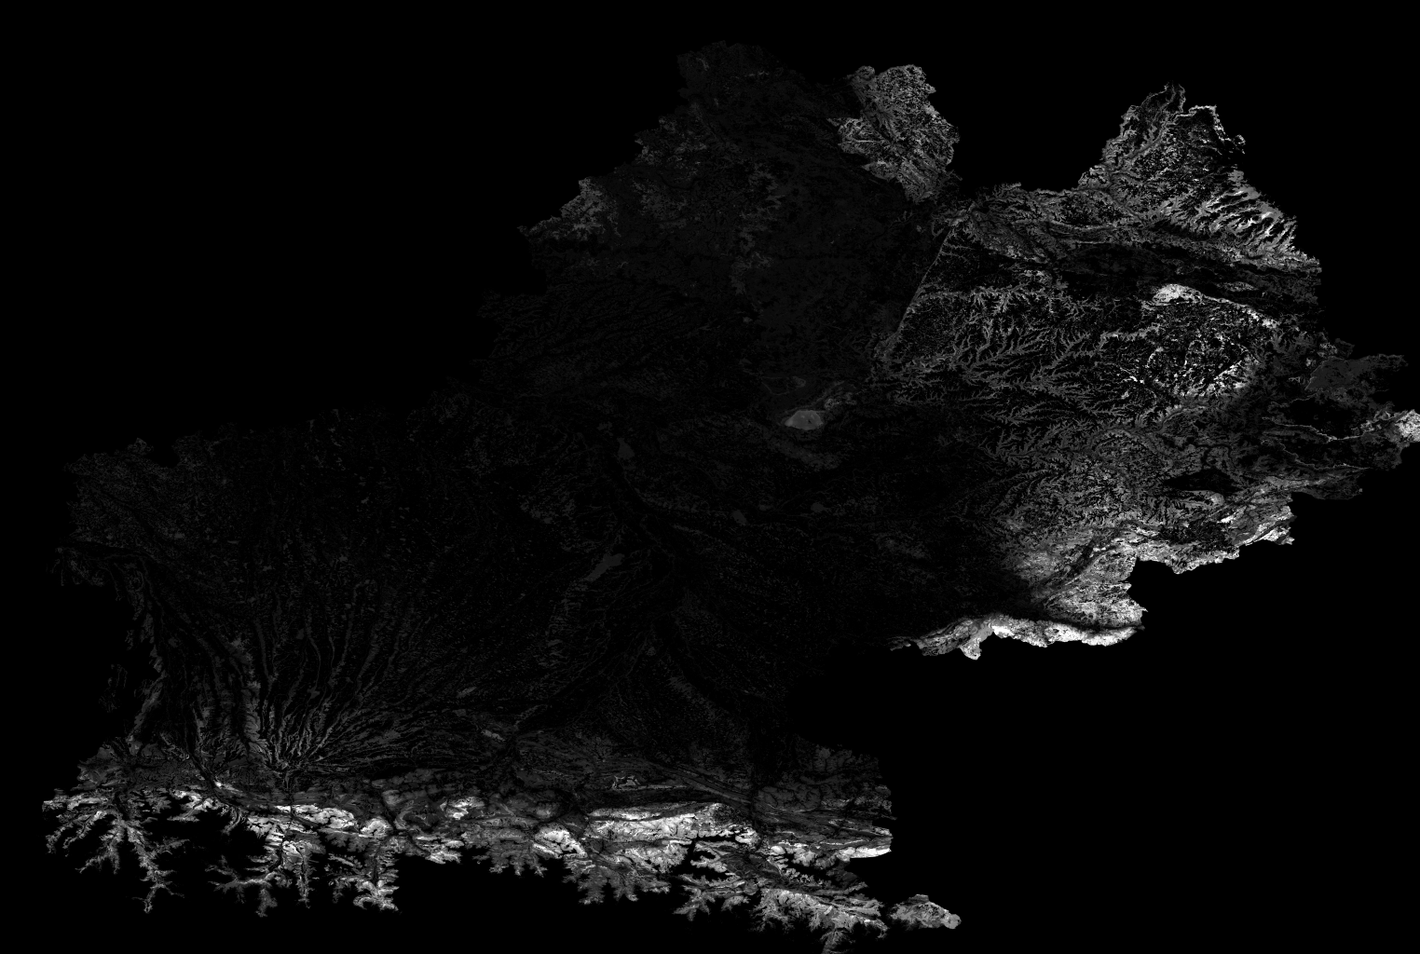
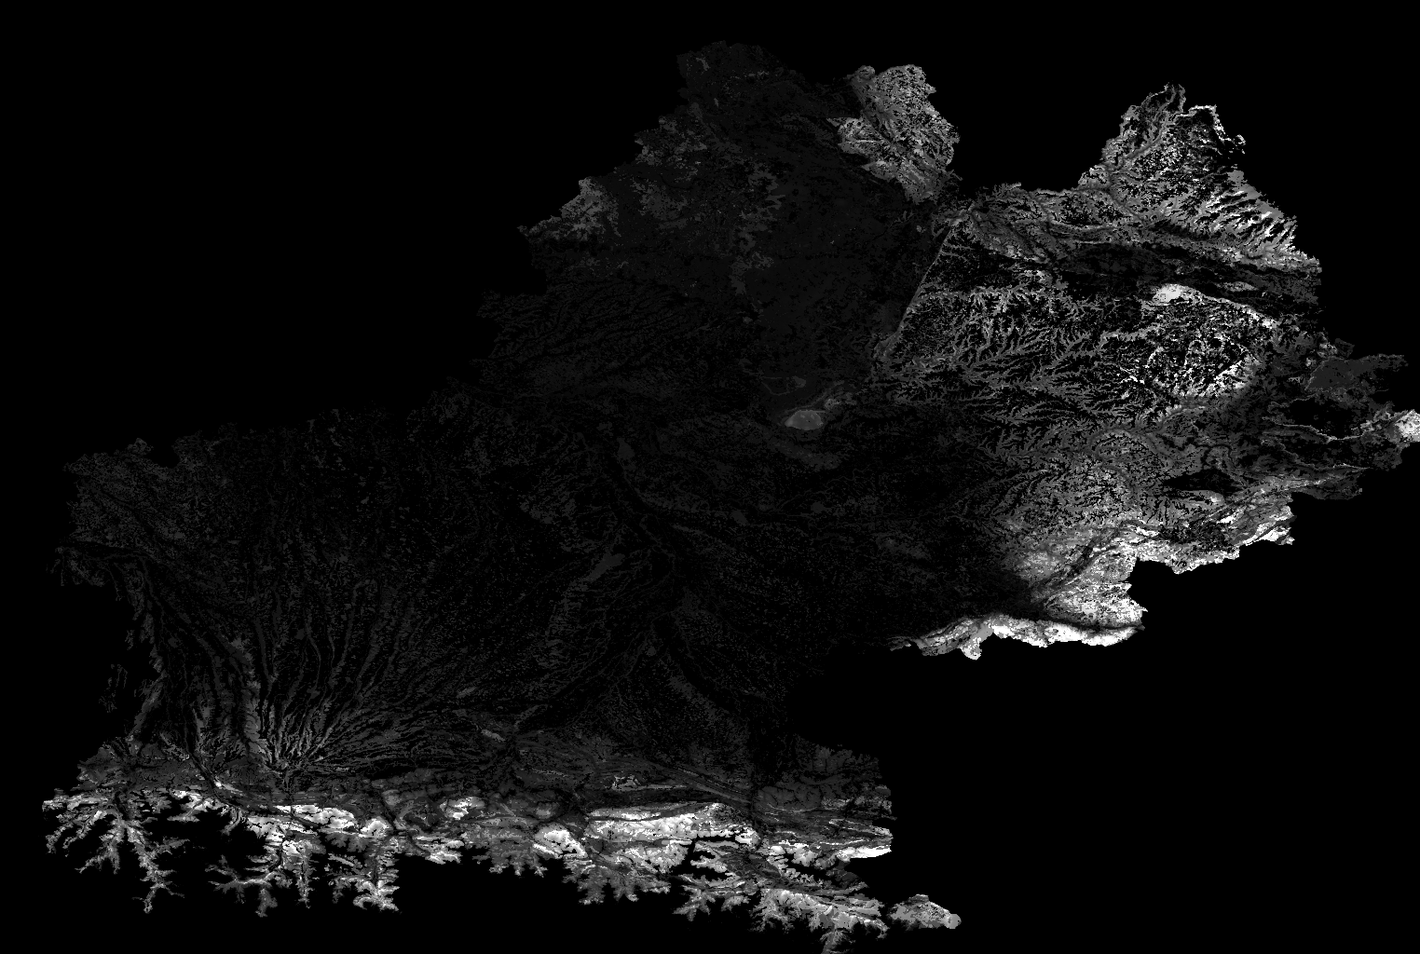
Coins : couche « Observations réelles » (GBIF) et vue d'ensemble au 3e quartile
- Case à cocher « 📍 Observations réelles » : trouvailles publiques de l'espèce choisie
  (public/observations.json, scripts/build-observations.py, ~1 700 points), bulle avec date,
  précision de position, jeu de données et licence ; rappel que pas de point ≠ pas de champignons.
- Vue d'ensemble à 250 m : 3e quartile des cases de 20 m au lieu de la moyenne, qui diluait les
  bons bois dans les prés (cèpe de Bordeaux : 1,5 % -> 2,8 % de la région au-dessus de 0,5,
  contre 3,9 % à 20 m ; l'Aubrac réapparaît au dézoom).

diff --git a/src/components/MapView.tsx b/src/components/MapView.tsx
@@ -31,6 +31,8 @@ import { LocateControl } from './LocateControl'
 import { CoinsCodeDialog } from './CoinsCodeDialog'
 import { coinsUnlocked } from '../lib/coinsLock'
 import { moonEnabled, setMoonEnabled } from '../lib/moon'
+import { loadObservations, observationsEnabled, setObservationsEnabled, type ObservationsMeta } from '../lib/observations'
+import { ObservationsLayer } from './ObservationsLayer'
 import { collapsePanels } from '../lib/usePanelCollapse'
 import './MapView.css'
 import { ModeSwitch } from './ModeSwitch'
@@ -268,6 +270,15 @@ export function MapView() {
     setMoonState(on)
     setMoonEnabled(on)
   }, [])
+  const [observations, setObservationsState] = useState(observationsEnabled)
+  const setObservations = useCallback((on: boolean) => {
+    setObservationsState(on)
+    setObservationsEnabled(on)
+  }, [])
+  const [obsMeta, setObsMeta] = useState<ObservationsMeta | null>(null)
+  useEffect(() => {
+    if (mode === 'coins' && observations) void loadObservations().then(setObsMeta)
+  }, [mode, observations])
   const [coinsView, setCoinsViewState] = useState<CoinsView>(() => {
     try {
       return localStorage.getItem('mc-coins-view') === 'milieu' ? 'milieu' : 'meteo'
@@ -591,6 +602,9 @@ export function MapView() {
             onView={setCoinsView}
             moon={moon}
             onMoon={setMoon}
+            observations={observations}
+            onObservations={setObservations}
+            obsCount={obsMeta ? (obsMeta.species[coinsSpecies]?.length ?? 0) : null}
             onSelectSpot={(s) => {
               map?.flyTo([s.lat, s.lon], Math.max(map.getZoom(), 13))
               openSpot(s.lat, s.lon, s.name)
@@ -711,6 +725,7 @@ export function MapView() {
         {mode === 'coins' && coinsResult && coinsStatus === 'ready' && fineIndex >= 0 && (
           <CoinsFineLayer result={coinsResult} speciesIndex={fineIndex} />
         )}
+        {mode === 'coins' && observations && obsMeta && <ObservationsLayer meta={obsMeta} species={coinsSpecies} />}
         {mode === 'coins' && spot && <ForecastCross point={{ lat: spot.lat, lon: spot.lon }} />}
 
         {mode === 'previsions' && <ForecastCross point={forecastState.status === 'idle' ? null : forecastState.point} />}

diff --git a/src/components/ObservationsLayer.tsx b/src/components/ObservationsLayer.tsx
@@ -1,0 +1,49 @@
+// Points des trouvailles réelles (GBIF) de l'espèce choisie, au-dessus de la carte des coins (lib/observations.ts).
+import L from 'leaflet'
+import { useEffect } from 'react'
+import { useMap } from 'react-leaflet'
+import { SPECIES, type Species } from '../lib/coins'
+import { formatObservationDate, type ObservationsMeta } from '../lib/observations'
+
+type Props = { meta: ObservationsMeta; species: Species }
+
+const escape = (s: string) => s.replace(/[&<>"]/g, (c) => ({ '&': '&amp;', '<': '&lt;', '>': '&gt;', '"': '&quot;' })[c]!)
+
+export function ObservationsLayer({ meta, species }: Props) {
+  const map = useMap()
+
+  useEffect(() => {
+    // Calque propre au-dessus des coins (350) et sous les bulles ; rendu canvas (des centaines de points).
+    if (!map.getPane('observations')) map.createPane('observations').style.zIndex = '450'
+    const renderer = L.canvas({ pane: 'observations' })
+    const label = SPECIES.find((s) => s.key === species)?.label ?? species
+    const group = L.layerGroup()
+    for (const [lat, lon, when, ds, unc] of meta.species[species] ?? []) {
+      const dataset = meta.datasets[ds]
+      const marker = L.circleMarker([lat, lon], {
+        pane: 'observations',
+        renderer,
+        radius: 5,
+        weight: 2,
+        color: '#1e293b',
+        fillColor: '#ffffff',
+        fillOpacity: 0.95,
+        // Sans ça, toucher un point ouvrirait aussi la fiche du coin en dessous.
+        bubblingMouseEvents: false,
+      })
+      marker.bindPopup(
+        `<strong>${escape(label)}</strong> trouvé ici<br>` +
+          `${escape(formatObservationDate(when))}<br>` +
+          `<small>Position ${unc >= 0 ? `à ${unc < 1000 ? `${unc} m` : `${(unc / 1000).toLocaleString('fr-FR')} km`} près` : 'de précision inconnue'}</small><br>` +
+          `<small>Source : <a href="https://www.gbif.org/dataset/${encodeURIComponent(dataset.key)}" target="_blank" rel="noopener">${escape(dataset.title || 'GBIF')}</a> (${escape(dataset.license)}), via GBIF.org</small>`,
+      )
+      group.addLayer(marker)
+    }
+    group.addTo(map)
+    return () => {
+      group.remove()
+    }
+  }, [map, meta, species])
+
+  return null
+}

diff --git a/src/components/CoinsControls.tsx b/src/components/CoinsControls.tsx
@@ -28,11 +28,15 @@ type Props = {
   // Clin d'œil « lune » (croyance populaire, lib/moon.ts), désactivé par défaut.
   moon: boolean
   onMoon: (on: boolean) => void
+  // Couche des trouvailles réelles (GBIF) ; obsCount = nombre de points pour l'espèce (null tant que non chargé).
+  observations: boolean
+  onObservations: (on: boolean) => void
+  obsCount: number | null
 }
 
 export type CoinsView = 'meteo' | 'milieu'
 
-export function CoinsControls({ species, onSpecies, dayIndex, onDay, meta, status, error, onRetry, spots, onSelectSpot, view, onView, moon, onMoon }: Props) {
+export function CoinsControls({ species, onSpecies, dayIndex, onDay, meta, status, error, onRetry, spots, onSelectSpot, view, onView, moon, onMoon, observations, onObservations, obsCount }: Props) {
   const [collapsed, setCollapsed] = useState(false)
   // Mobile : replié quand on touche la carte ou qu'une fiche s'ouvre (lib/usePanelCollapse.ts).
   usePanelCollapse(useCallback(() => setCollapsed(true), []))
@@ -176,6 +180,21 @@ export function CoinsControls({ species, onSpecies, dayIndex, onDay, meta, statu
               ))}
             </ol>
           )}
+
+          <label className="coins__moon coins__obs">
+            <input type="checkbox" checked={observations} onChange={(e) => onObservations(e.target.checked)} />
+            <span>
+              📍 Observations réelles <small>(GBIF)</small>
+              {observations && (
+                <small className="coins__moon-phase">
+                  {obsCount === null
+                    ? 'Chargement…'
+                    : `${obsCount} trouvailles publiques de l’espèce dans la région (points blancs, toucher pour la date et la source).`}{' '}
+                  Pas de point ne veut pas dire pas de champignons : beaucoup de cueilleurs ne publient pas leurs coins.
+                </small>
+              )}
+            </span>
+          </label>
 
           <label className="coins__moon">
             <input type="checkbox" checked={moon} onChange={(e) => onMoon(e.target.checked)} />

diff --git a/src/lib/observations.ts b/src/lib/observations.ts
@@ -1,0 +1,46 @@
+// Couche « Observations réelles » du mode Coins : trouvailles publiques des 7 espèces (GBIF), préparées par
+// scripts/build-observations.py dans public/observations.json. Chaque point garde son jeu de données (titre +
+// licence, affichés dans la bulle : obligatoire pour les licences CC BY / CC BY-NC).
+import type { Species } from './coins'
+
+export type ObservationDataset = { key: string; title: string; license: string }
+// [lat, lon, date (AAAA-MM-JJ, AAAA-MM ou AAAA), index du jeu de données, incertitude de position en m (-1 = inconnue)]
+export type ObservationPoint = [number, number, string, number, number]
+export type ObservationsMeta = {
+  generatedAt: string
+  datasets: ObservationDataset[]
+  species: Partial<Record<Species, ObservationPoint[]>>
+}
+
+let cache: Promise<ObservationsMeta | null> | null = null
+export function loadObservations(): Promise<ObservationsMeta | null> {
+  cache ??= fetch(`${import.meta.env.BASE_URL}observations.json`)
+    .then((r) => (r.ok ? (r.json() as Promise<ObservationsMeta>) : null))
+    .catch(() => null)
+  return cache
+}
+
+const MONTH = new Intl.DateTimeFormat('fr-FR', { month: 'long', year: 'numeric' })
+const DAY = new Intl.DateTimeFormat('fr-FR', { day: 'numeric', month: 'long', year: 'numeric' })
+export function formatObservationDate(when: string): string {
+  const [y, m, d] = when.split('-').map(Number)
+  if (d) return DAY.format(new Date(y, m - 1, d))
+  if (m) return MONTH.format(new Date(y, m - 1, 1))
+  return when || 'date inconnue'
+}
+
+const KEY = 'mc-coins-observations'
+export function observationsEnabled(): boolean {
+  try {
+    return localStorage.getItem(KEY) === '1'
+  } catch {
+    return false
+  }
+}
+export function setObservationsEnabled(on: boolean): void {
+  try {
+    localStorage.setItem(KEY, on ? '1' : '0')
+  } catch {
+    // mémorisation facultative
+  }
+}

diff --git a/src/components/CoinsControls.css b/src/components/CoinsControls.css
@@ -325,6 +325,19 @@
   color: #6d28d9;
 }
 
+.coins__obs {
+  background: #f1f5f9;
+  color: #1e293b;
+}
+
+.coins__obs input {
+  accent-color: #1e293b;
+}
+
+.coins__obs small {
+  color: #475569;
+}
+
 .coins__moon-phase {
   display: block;
   margin-top: 3px;

diff --git a/scripts/build-observations.py b/scripts/build-observations.py
@@ -1,0 +1,77 @@
+"""Observations réelles des 7 espèces du mode Coins (GBIF) -> public/observations.json, pour la couche
+« Observations réelles » de l'appli (on voit où l'espèce a vraiment été trouvée et notée).
+
+Entrée : .cache-habitat/gbif/sp.json (scripts/validation/gbif_fetch_all.py). Gardées : emprise de la région, position
+à 5 km près au plus (l'incertitude est affichée), une seule par espèce, lieu et jour. Chaque point garde son jeu de
+données : titre et licence (CC0, CC BY, CC BY-NC) affichés dans l'appli, comme l'exigent ces licences ; usage non
+commercial. Aucun nom d'observateur n'est repris.
+
+Lancement : python scripts/build-observations.py   (à relancer après un nouveau téléchargement GBIF)
+"""
+import json
+import os
+import urllib.request
+from datetime import datetime, timezone
+
+ROOT = os.path.dirname(os.path.dirname(os.path.abspath(__file__)))
+SRC = os.path.join(ROOT, ".cache-habitat", "gbif", "sp.json")
+OUT = os.path.join(ROOT, "public", "observations.json")
+LAT_MIN, LAT_MAX, LON_MIN, LON_MAX = 42.6, 45.15, -0.4, 3.4
+MAX_UNC = 5000
+LICENSES = {"by-nc": "CC BY-NC 4.0", "by": "CC BY 4.0", "zero": "CC0"}
+
+
+def license_label(url):
+    url = (url or "").lower()
+    for key in ("by-nc", "zero", "by"):
+        if f"/{key}/" in url or url.endswith(key):
+            return LICENSES[key]
+    return url or "?"
+
+
+def main():
+    sp = json.load(open(SRC))
+    datasets, index, out = [], {}, {}
+    for name, block in sp.items():
+        seen, pts = set(), []
+        for r in block["recs"]:
+            lat, lon = r.get("decimalLatitude"), r.get("decimalLongitude")
+            if lat is None or not (LAT_MIN <= lat <= LAT_MAX and LON_MIN <= lon <= LON_MAX):
+                continue
+            unc = r.get("coordinateUncertaintyInMeters")
+            if unc is not None and unc > MAX_UNC:
+                continue
+            y, m, d = r.get("year"), r.get("month"), r.get("day")
+            when = f"{y:04d}-{m:02d}-{d:02d}" if y and m and d else f"{y:04d}-{m:02d}" if y and m else str(y or "")
+            key = (round(lat, 4), round(lon, 4), when)
+            if key in seen:
+                continue
+            seen.add(key)
+            ds = r.get("datasetKey")
+            if ds not in index:
+                index[ds] = len(datasets)
+                datasets.append({"key": ds, "license": license_label(r.get("license"))})
+            pts.append([round(lat, 4), round(lon, 4), when, index[ds], int(unc) if unc is not None else -1])
+        pts.sort(key=lambda p: p[2])
+        out[name] = pts
+        print(f"{name:14s} {len(pts)} observations")
+    for ds in datasets:
+        try:
+            with urllib.request.urlopen(f"https://api.gbif.org/v1/dataset/{ds['key']}", timeout=30) as resp:
+                ds["title"] = json.load(resp).get("title", "")
+        except Exception:
+            ds["title"] = ""
+    meta = {
+        "generatedAt": datetime.now(timezone.utc).strftime("%Y-%m-%dT%H:%M:%SZ"),
+        "source": "GBIF.org — observations publiques ; licence de chaque jeu de données ci-dessous",
+        "fields": ["lat", "lon", "date", "jeu de données (index de datasets)", "incertitude de position en m (-1 = inconnue)"],
+        "datasets": datasets,
+        "species": out,
+    }
+    with open(OUT, "w", encoding="utf-8") as fh:
+        json.dump(meta, fh, ensure_ascii=False, separators=(",", ":"))
+    print(f"{len(datasets)} jeux de données, {os.path.getsize(OUT) // 1024} Ko")
+
+
+if __name__ == "__main__":
+    main()

diff --git a/scripts/build-habitat-fine.py b/scripts/build-habitat-fine.py
@@ -449,8 +449,11 @@ def build_tiles(raster, zooms=(10, 11, 12, 13)):
 
 
 def build_coarse():
-    """Carte d'ensemble à 250 m (public/habitat/<espèce>.png) = MOYENNE de l'habitat à 20 m sur chaque case :
-    une seule source de vérité, la carte d'ensemble et les tuiles fines racontent la même chose."""
+    """Carte d'ensemble à 250 m (public/habitat/<espèce>.png) tirée de l'habitat à 20 m : une seule source de vérité.
+    Valeur d'une case = 3e QUARTILE de ses cases de 20 m (révision du 31/10/2026) : la case s'allume dès qu'un quart de
+    sa surface est un bon milieu. La MOYENNE d'avant diluait les bons bois dans les prés et champs voisins : 1,5 % de la
+    région au-dessus de 0,5 pour le cèpe de Bordeaux, contre 3,9 % à 20 m (l'Aubrac, zone la mieux confirmée par les
+    observations, disparaissait au dézoom) ; 2,8 % avec le 3e quartile ; le maximum (5,4 %) aurait exagéré."""
     from PIL import Image
     from rasterio.transform import from_bounds
 
@@ -460,7 +463,7 @@ def build_coarse():
     with rasterio.open(FULL) as src:
         for i, sp in enumerate(SPECIES):
             dst = np.zeros((rows, cols), np.float32)
-            reproject(rasterio.band(src, i + 1), dst, dst_transform=tr, dst_crs="EPSG:4326", resampling=Resampling.average,
+            reproject(rasterio.band(src, i + 1), dst, dst_transform=tr, dst_crs="EPSG:4326", resampling=Resampling.q3,
                       src_nodata=None, dst_nodata=0)
             Image.fromarray(np.clip(np.rint(dst), 0, 255).astype(np.uint8), mode="L").save(os.path.join(outdir, f"{sp}.png"), optimize=True)
             log(f"carte d'ensemble {sp} : moyenne {dst[dst > 0].mean() / 255:.3f}, cases >= 0,5 : {(dst >= 128).mean() * 100:.1f} %")

diff --git a/CLAUDE.md b/CLAUDE.md
@@ -106,7 +106,7 @@ But : montrer où chercher les **4 cèpes séparés** (d'été *B. reticulatus*,
 - **Formule du milieu** (`build-habitat.py` règles, `build-habitat-fine.py` calcul à 20 m) : **arbres hôtes à moins de 30 m** (mycorhiziens ; sinon 0) × **ouverture du bois** (courbe par espèce sur le % de couvert : cèpes de chaleur = bois clairs et parsemés, Bordeaux/pins tolèrent le dense, girolle bois clair à dense, trompette ombre dense, coulemelle milieu ouvert) × **sol** (plancher 0,25) × **altitude** × **pente** × **exposition** (sud-sud-ouest pour été/bronzé, nord-nord-est pour Bordeaux/girolle/trompette, pondérée par la pente). **Haies et bosquets** hors BD Forêt (< 0,5 ha) comptent (`SMALL_WOODS`, essence inconnue) ; **coupes récentes** (forêt BD Forêt sans arbre en 2024 à 30 m) × 0,1. Corrections : cèpe de Bordeaux plus pénalisé en plaine (c'est LE cèpe des chênaies/châtaigneraies de plaine du Sud-Ouest), cèpe des pins moins pénalisé en basse altitude, chênes verts/pubescents mieux notés pour le cèpe d'été. La carte d'ensemble à 250 m (`public/habitat/<espèce>.png`) est désormais la MOYENNE de l'habitat à 20 m (`build_coarse`, raster 7 bandes `habitat-20m-7b.tif`) : une seule source de vérité. Tuiles : 5 257, 173 Mo (branche `habitat`). Contrôle visuel : causses du Quercy très favorables au cèpe d'été (calcaire + chênes pubescents), girolle absente des causses, Bordeaux et girolle sur Pyrénées / Montagne Noire / Bouriane / Ségala.
 - **Pousse v2** (`build-pousse.py`), vérifiée sur scénarios types (orage de juillet à 20 °C : cèpe d'été pic J+9, favorable J+8-10, coulemelle J+5 ; grosse pluie d'octobre à 12 °C : Bordeaux pic J+14 dès J+11, coulemelle J+11 ; pluies régulières d'octobre : trompette J+15-32, girolle J+18-30) : jour déclencheur lui-même pluvieux (≥ 5 mm ; un orage comptait sur 3 jours), évaporation sous couvert `max(0,3 ; 0,14 T - 0,3)` mm/j (trop faible l'été avant), fenêtres de degrés-jours revues (été/bronzé 100-150-260, Bordeaux/pins 70-115-230, coulemelle 50-85-190), **besoin d'humidité propre à chaque espèce** (`MOISTURE` : girolle et trompette exigent un sol durablement humide, cèpes de chaleur tolèrent un sol qui ressèche). Le « choc thermique » n'est pas modélisé (croyance mal établie).
 - **Audit du 25/10/2026 (règles testées sur des lieux réels et des scénarios, pas sur les remarques de l'utilisateur)** — milieu : bâti, eau et cultures (WorldCover 50/80/40) sortaient à 0,1-0,4 → 0 (`EXCLUDED_LANDCOVER`) ; prairies trop favorables aux cèpes (0,42 en Bouriane) → arbre à moins de 20 m exigé et × 0,6 (`MEADOW_*`, coulemelle exclue) ; coupes rases bordées d'arbres restaient à 0,17-0,19 → case de forêt BD Forêt < 10 % de couvert = coupe, × 0,1 (× 0,5 juste sous un arbre restant), résultat 0,07 ; pénalité des bois très denses adoucie (le satellite voit le couvert d'en haut : futaie au sous-bois clair = taillis serré). Vérifiés corrects : exposition (cèpe d'été plus fort au sud, Bordeaux/girolle/trompette au nord), préférence pour les bois clairs, villes et hautes montagnes à 0. Pousse : gelée (min ≤ -2 °C) annule les poussées antérieures (cèpes, coulemelle ; girolle/trompette gardent 40 %) ; girolle et trompette ont un second déclencheur « humidité entretenue » (moyenne du réservoir sur 21 jours, 20 → 35 mm) ; trompette en degrés-jours base 2 °C ; épisode = pluie sur 5 jours comptée à sa fin, seuil progressif (60-100 % du seuil = petite poussée) ; cèpe bronzé ramené à un réglage intermédiaire (octobre 0,7, novembre 0,15, à l'aise dès 16 °C). Cas de Cérizols (25 mm étalés, 17,6 mm au mieux sur 3 jours) : le modèle avait raison (potentiel quasi nul), seul le message « aucune grosse pluie » était trompeur → « pluies faibles et étalées ». **Limite connue** : température de pousse à ~1,3 km (AROME), sans correction d'altitude dans une case de montagne (2-3 °C d'écart possible). Scripts de test (scénarios, classes de sol, relief) dans le scratchpad de la session, pas versionnés.
-- **Révision validée sur observations (30/10/2026, `docs/etude-champignons-coins.md` sections 5-7, outils `scripts/validation/`)** — demande utilisateur : « carte la plus fiable possible, surpasser le concurrent », par la littérature ET les données. Mesure objective : observations GBIF des 7 espèces contre un fond « champignons du sol à chapeau » (le fond « tous champignons » contenait les lichens : biaisé), milieu évalué à 20 m (`covariates-20m.tif` : variables calculées une fois, rebâtir le milieu prend ~5 min ensuite), météo ERA5 1995-2026 lue sur `s3://openmeteo` (`.cache-habitat/era5/`). **Milieu** : carte géologique BRGM BD Charm-50 au 1/50 000 (Licence Ouverte, `.cache-habitat/geol/`, classes par mots-clés `scripts/geol_classes.py`, `GEOL` remplace la courbe de pH dans les classes renseignées), courbes d'altitude refaites (cèpe de Bordeaux optimum 850-1 050 m, faible en plaine ; girolle 450-600 m), préférence nord retirée (Bordeaux, girolle, trompette), pénalité des sols acides retirée pour la trompette, châtaignier favorable, bois fermés non pénalisés (Bordeaux, pins), terrains plats 0,75, coulemelle en sous-bois et prairies. **Météo** (`build-pousse.py`) : modèle « à fenêtres » remplaçant les degrés-jours — pluie cumulée sur 2-6 semaines terminée 0-14 jours avant (la pluie des 3-7 derniers jours n'explique rien), température moyenne, gel, saison tirée des mois GBIF (cèpe bronzé surtout sept.-oct., cèpe des pins aussi avril-juin, coulemelle sept.-nov.), puis **calibration** en chance relative (`CALIB`, plancher 0,2-0,4). Historique météo 65 jours (60 utilisés). Note finale (AUC milieu × météo), ancienne → nouvelle : Bordeaux 0,62 → 0,74, bronzé 0,78 → 0,85, été 0,72 → 0,77, coulemelle 0,61 → 0,69, trompette 0,64 → 0,71, girolle 0,58 → 0,65. Anciennes sorties dans `.cache-habitat/old-20261030/`. **Publier les tuiles (branche `habitat`) et le code (`master`) ENSEMBLE.**
+- **Révision validée sur observations (30/10/2026, `docs/etude-champignons-coins.md` sections 5-7, outils `scripts/validation/`)** — demande utilisateur : « carte la plus fiable possible, surpasser le concurrent », par la littérature ET les données. Mesure objective : observations GBIF des 7 espèces contre un fond « champignons du sol à chapeau » (le fond « tous champignons » contenait les lichens : biaisé), milieu évalué à 20 m (`covariates-20m.tif` : variables calculées une fois, rebâtir le milieu prend ~5 min ensuite), météo ERA5 1995-2026 lue sur `s3://openmeteo` (`.cache-habitat/era5/`). **Milieu** : carte géologique BRGM BD Charm-50 au 1/50 000 (Licence Ouverte, `.cache-habitat/geol/`, classes par mots-clés `scripts/geol_classes.py`, `GEOL` remplace la courbe de pH dans les classes renseignées), courbes d'altitude refaites (cèpe de Bordeaux optimum 850-1 050 m, faible en plaine ; girolle 450-600 m), préférence nord retirée (Bordeaux, girolle, trompette), pénalité des sols acides retirée pour la trompette, châtaignier favorable, bois fermés non pénalisés (Bordeaux, pins), terrains plats 0,75, coulemelle en sous-bois et prairies. **Météo** (`build-pousse.py`) : modèle « à fenêtres » remplaçant les degrés-jours — pluie cumulée sur 2-6 semaines terminée 0-14 jours avant (la pluie des 3-7 derniers jours n'explique rien), température moyenne, gel, saison tirée des mois GBIF (cèpe bronzé surtout sept.-oct., cèpe des pins aussi avril-juin, coulemelle sept.-nov.), puis **calibration** en chance relative (`CALIB`, plancher 0,2-0,4). Historique météo 65 jours (60 utilisés). Note finale (AUC milieu × météo), ancienne → nouvelle : Bordeaux 0,62 → 0,74, bronzé 0,78 → 0,85, été 0,72 → 0,77, coulemelle 0,61 → 0,69, trompette 0,64 → 0,71, girolle 0,58 → 0,65. Anciennes sorties dans `.cache-habitat/old-20261030/`. **Publier les tuiles (branche `habitat`) et le code (`master`) ENSEMBLE.** Branche `habitat` : un seul commit orphelin, remplacé (push --force) à chaque nouvelle version, bâti avec un `--git-dir` temporaire et `--work-tree=.cache-habitat/tiles` (+ README.md et vercel.json repris de la branche). Contours aux forts zooms (31/10/2026, « flous ») : `CoinsFineLayer` redessine jusqu'au zoom 18 depuis la tuile du zoom 13, niveau lissé (1-2-1) et interpolé, contour au seuil 3,5. Vue d'ensemble à 250 m = **3e quartile** des cases de 20 m (`build_coarse`), plus la moyenne : la moyenne diluait les bons bois dans les prés (l'Aubrac, zone la mieux confirmée par les observations, disparaissait au dézoom ; question de l'utilisateur sur l'écart avec le concurrent). **Couche « 📍 Observations réelles »** (case à cocher du panneau, `mc-coins-observations`) : trouvailles GBIF de l'espèce (`public/observations.json`, `scripts/build-observations.py`, ~1 700 points, position à 5 km près au plus, bulle = date, précision, jeu de données et licence CC BY / CC BY-NC / CC0 ; aucun nom d'observateur) ; texte rappelant que pas de point ≠ pas de champignons.
 - **Appli** : choix **« 🌦 Avec la météo / 🌳 Milieu seul »** (`mc-coins-view` ; milieu seul = habitat sans météo, jours masqués, palmarès « meilleurs milieux », échelle de couleurs adaptée `displayValue` car le milieu atteint 60-90 % là où la palette est calée sur le score avec météo) ; **pourcentage** dans la fiche (« Potentiel X % = milieu Y % × météo Z % »). **Clin d'œil lune** (`lib/moon.ts`, `mc-moon`, désactivé par défaut) : croyance populaire SANS preuve scientifique, affichée comme telle ; activée, × 1,15 de la nouvelle lune à 3 jours après la pleine lune, × 0,9 sinon ; sans effet en « Milieu seul » ; phase calculée (mois synodique 29,53 j depuis la nouvelle lune du 6/01/2000 18 h 14 UTC ; vérifié : pleine lune le 26/10/2026).
 
 ### 3.5 Guide des champignons (branche `evolchampi`, 06/10/2026)
